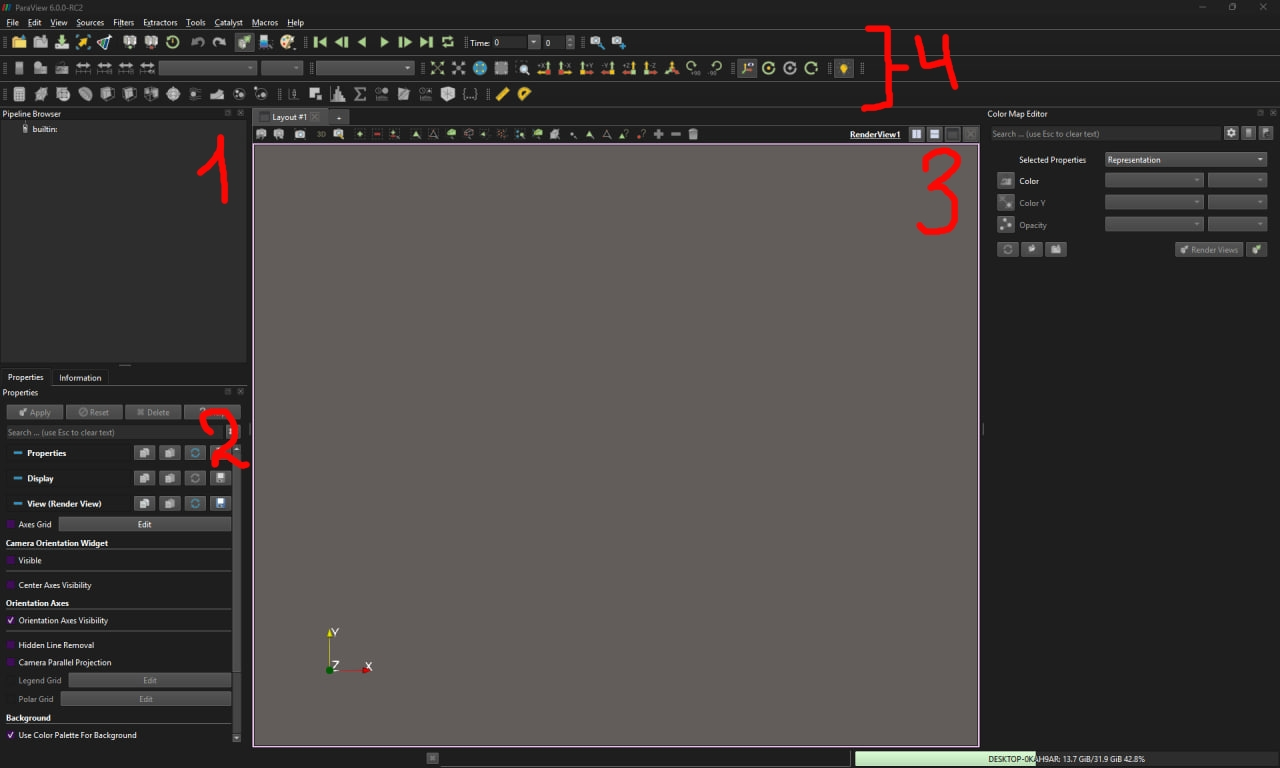
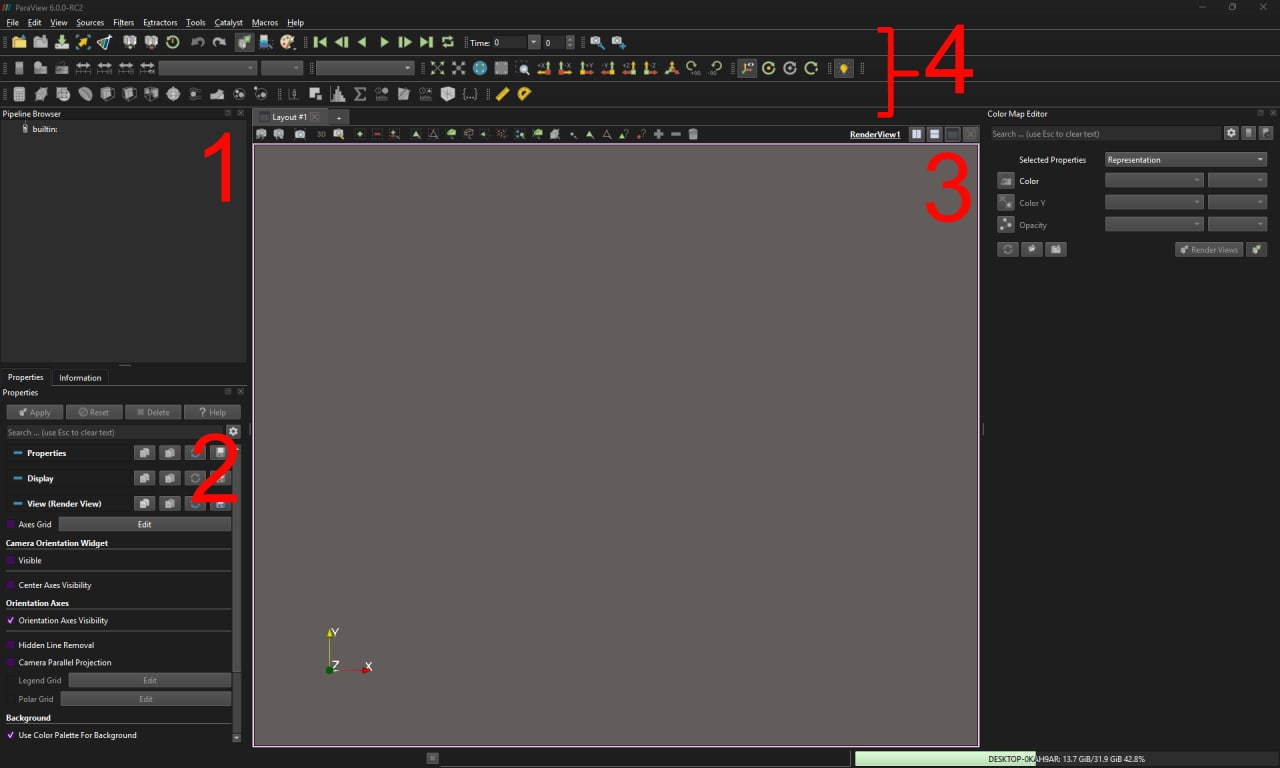
Fixed requested changes

diff --git a/research/paraview.md b/research/paraview.md
@@ -1,0 +1,63 @@
+- [Paraview](#paraview)  
+    - [1. Interface](#1-interface)
+    - [2. Files](#2-files)
+    - [3. Filters](#3-filters)
+
+
+## [Paraview](https://www.paraview.org/)
+
+It is an open source tool for data visualization. It is build on top of [VTK] (Visualization toolkit) graphics library. Paraview has a visual pipeline that uses filters to process data. Each stage of the pipeline takes data as input, applies filter to the data, and return some new visual representation of the data.   
+
+The paraview can be useful as post-processing tool. Using filter you can transform your mesh and then export it as gltf file. You can also export the scientific data from the mesh for your own use. The rendered scene can be exported as an image.
+
+- [Documentation](https://docs.paraview.org/en/latest/)  
+- [Repository](https://gitlab.kitware.com/paraview/paraview)
+- [C++ API](https://www.paraview.org/paraview-docs/nightly/cxx/)
+
+### 1. Interface
+
+
+<p align="center">
+    <img src="../assets/open_source/paraview/new_window.jpg" width="100%">
+</p>
+
+The main 4 panels are:  
+1. Pipeline browser - display the visual pipeline( a sequance of filters applied to meshes/datasets ).
+2. Properties - displays properties related to the currently selected object in the pipeline browser.
+3. Render view - renders the resulting image
+4. Quick access panel - contain shortcuts for the most used functionality( Color maps, animation controls, camera controls and filters )
+
+### 2. Files
+
+Paraview supports more then 200 different file formats, and allows for Reader intergration for you desired filetype.
+
+You can export your scene in one of the formats shown below:
+<p align="center">
+    <img src="../assets/open_source/paraview/export_file_types.jpg" width="300px">
+</p>
+
+For example, you can save your work as gltf file and use it somewhere in your project.
+
+You can export the point data in your mesh in the following formats:
+
+<p align="center">
+    <img src="../assets/open_source/paraview/export_data_type.jpg" width="300px">
+</p>
+
+Paraview also allows to same the rendered scene as an image.
+
+### 3. Filters
+
+Filters are the most important part and Paraview has over 100 available filters for a wide variaty of technical tasks:
+
+<p align="center">
+    <img src="../assets/open_source/paraview/filters.jpg" width="100%">
+</p>
+
+Here is an example of visualizaion with paraview:
+
+<p align="center">
+    <img src="../assets/open_source/paraview/example.jpg" width="100%">
+</p>
+
+[VTK]: https://docs.vtk.org/en/latest/getting_started/index.html

diff --git a/research/openfoam.md b/research/openfoam.md
@@ -1,0 +1,32 @@
+- [OpenFOAM](#openfoam)  
+
+
+## [OpenFOAM](https://www.openfoam.com/)
+
+OpenFOAM( Field Operation and Manipulation ) - is a Computational Fluid Dynamics software, that provides with solvers for physical simulations. It does not provide the visualization. For that you need to use another software like Paraview.
+
+- [Documentation](https://www.openfoam.com/documentation/overview)
+- [User Guide](https://dl.openfoam.com/source/latest/UserGuide.pdf)
+- [Tutorial](https://dl.openfoam.com/source/latest/TutorialGuide.pdf)
+- [Repository](https://develop.openfoam.com/Development/openfoam)
+
+Before working with the openFOAM, you need to set it up by running the following command
+```sh
+source /installation/path/OpenFOAM-v2506/etc/bashrc
+```
+
+For each simulations( case ) a seperate directory needs to be created, where you specify the simulation properties in files, that contain key value pair in plane text format
+
+-   `constant` directory - for geometric and physical properties
+-   `system` directory - settings of the simulation
+-   `0`(zero) directory - for field and boundary conditions at timestemp zero( For each property in a seperate file )
+
+OpenFOAM has helper programs to make it easier to create your scene. For example the `blockMeshDict` file explains to the `blockMesh` utility how subdivide the space into cells and boundary from which the mesh will be created.
+
+After you are done with specifying conditions for the scene, you run the solver for your specific task, which write to file the state of the field at different timesteps.  
+
+This result can then be viewed and further exported using paraview. To view the result you just need to create the `case.foam` placeholder file and load it in the paraview. The builtin openFOAM reader will the handle loading the rest of the data.
+
+
+
+[VTK]: https://docs.vtk.org/en/latest/getting_started/index.html
